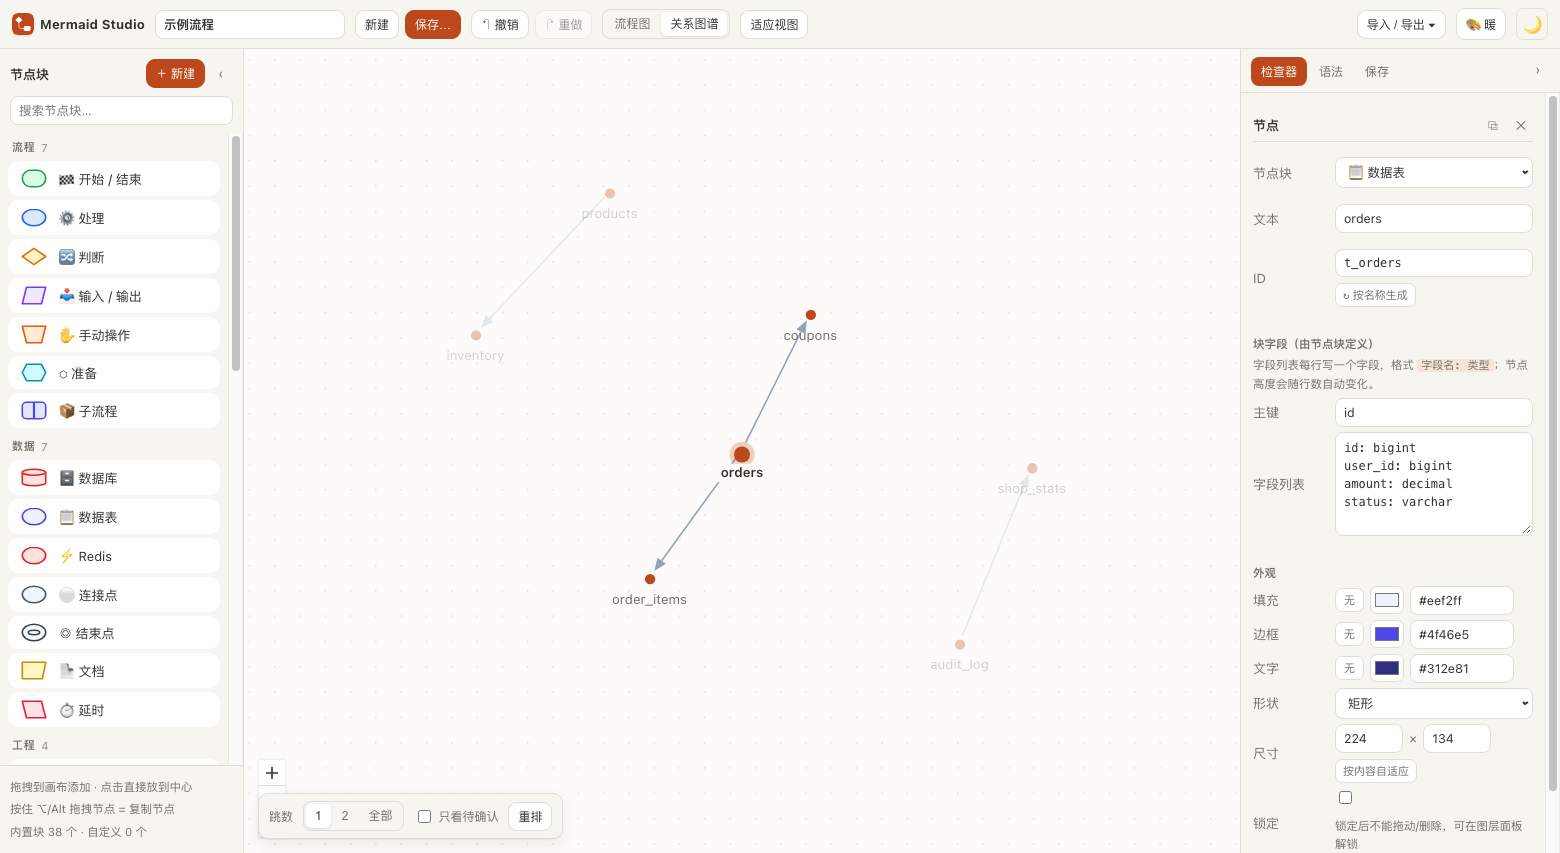
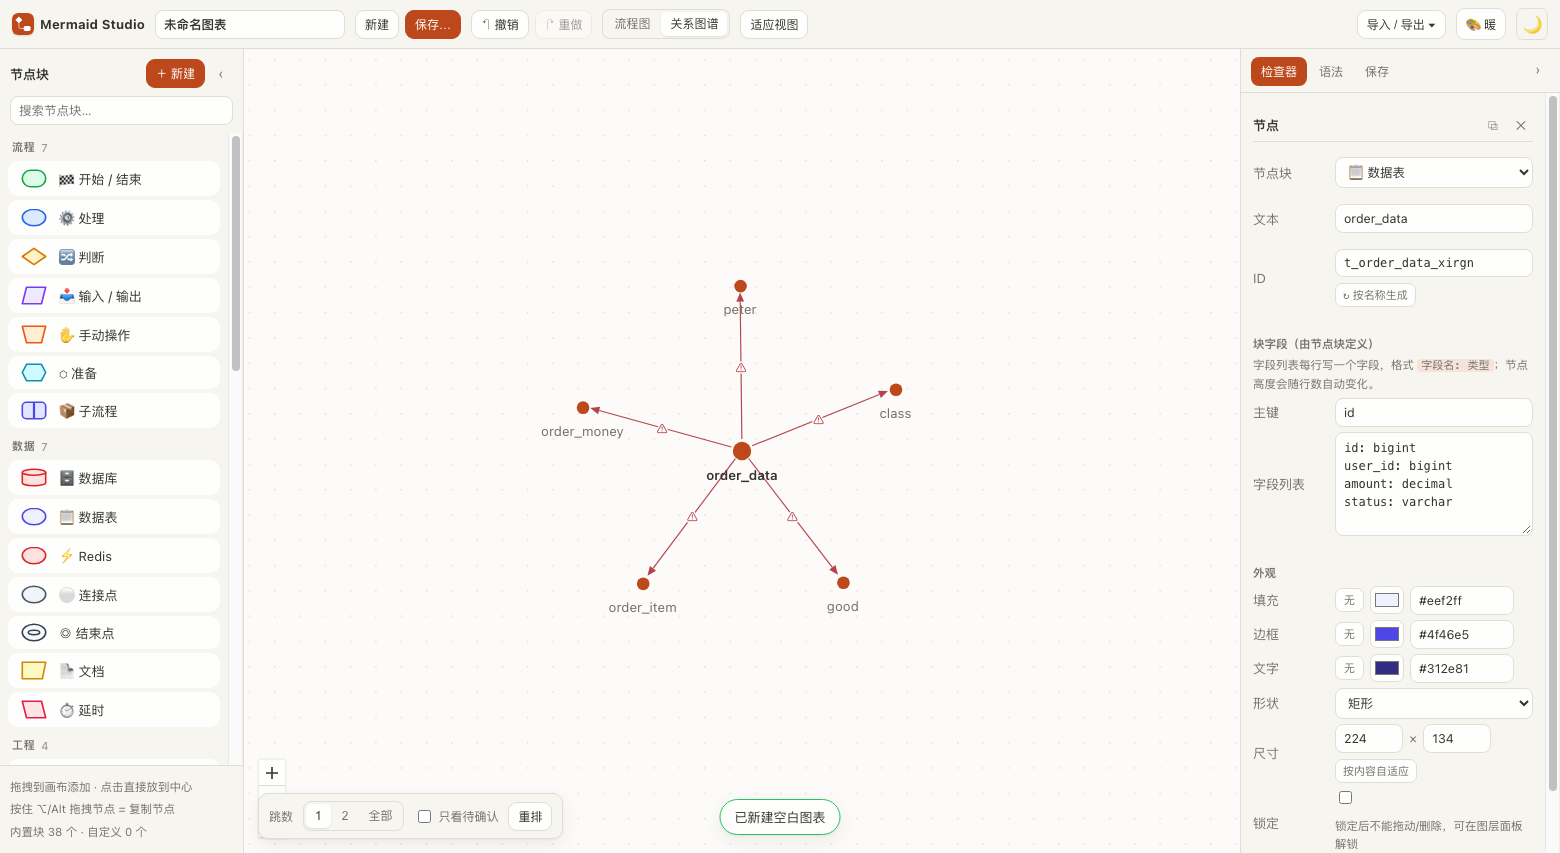
关系图谱：连线改细、圆点按度数定面积、去掉焦点光环与标签底色
- 连线 1px（Obsidian 口径），箭头缩到 8px；端点按两端圆点半径各自缩回，贴住边缘
- 圆点面积随连线数增长：直径 = 8 + √度数 × 3.4（上限 22px），焦点不再额外放大
- 去掉焦点圆点的渐变光环与标签的白色底（会糊住圆点和连线）；焦点只靠名字加粗 + 最上层区分
- 节点模型补 degree；节点框 140×70、圆点槽位固定 24px，圆心不随尺寸漂移
- e2e 增加三条样式断言（1px 线 / 面积随度数 / 无光环无白底）；全量 411 条通过
- 文档同步：D8、§6 视觉口径、§9 验收 24 条、§14 十五处实现记录、README

diff --git a/src/styles.css b/src/styles.css
@@ -2429,26 +2429,25 @@ body.ms-space-pan .react-flow__pane.dragging {
 }
 
 .ms-gdot__body {
+  /* 固定 24px 的圆点槽位：圆点大小随度数变，但圆心始终在 DOT_ANCHOR_Y */
   display: flex;
-  flex-direction: column;
   align-items: center;
-  gap: 5px;
+  justify-content: center;
+  height: 24px;
 }
 
 /* 分组色由节点写进 --gdot；缺省跟随主色 */
 .ms-gdot__dot {
-  width: 9px;
-  height: 9px;
   border-radius: 50%;
   background: var(--gdot, var(--accent));
-  transition: transform 0.16s ease, box-shadow 0.16s ease, width 0.16s ease, height 0.16s ease;
+  transition: transform 0.16s ease;
 }
 
 .ms-gdot__label {
   /* 绝对定位：表名可能比 140 的节点框长（如 ty_product.mt_store_sku_wide），
      允许它溢出节点框，不要截断成省略号 */
   position: absolute;
-  top: 19px;
+  top: 30px;
   left: 50%;
   transform: translateX(-50%);
   max-width: 230px;
@@ -2469,12 +2468,6 @@ body.ms-space-pan .react-flow__pane.dragging {
   color: var(--text);
 }
 
-.ms-gdot.is-focus .ms-gdot__dot {
-  width: 14px;
-  height: 14px;
-  box-shadow: 0 0 0 4px color-mix(in srgb, var(--gdot, var(--accent)) 24%, transparent);
-}
-
 .ms-gdot.is-focus {
   z-index: 2;
 }
@@ -2482,10 +2475,6 @@ body.ms-space-pan .react-flow__pane.dragging {
 .ms-gdot.is-focus .ms-gdot__label {
   color: var(--text);
   font-weight: 600;
-  /* 标签允许互相压住，焦点这张要压在最上面、加一层底色才读得清 */
-  background: var(--bg);
-  padding: 1px 5px;
-  border-radius: 4px;
 }
 
 .ms-gdot:hover {
@@ -2517,7 +2506,8 @@ body.ms-space-pan .react-flow__pane.dragging {
 .ms-gedge__line {
   fill: none;
   stroke: var(--ms-gedge-line);
-  stroke-width: 1.4;
+  /* Obsidian 的连线很细：1px 左右，靠颜色而不是粗细区分 */
+  stroke-width: 1;
 }
 
 .ms-gedge__arrow {

diff --git a/src/components/GraphEdgeView.tsx b/src/components/GraphEdgeView.tsx
@@ -8,28 +8,29 @@ export interface GraphEdgeData extends Record<string, unknown> {
   arrow: boolean
   label: string
   dim: boolean
+  /** 两端圆点的半径：线要缩到各自圆点的边缘，节点大小随度数变 */
+  sourceR: number
+  targetR: number
 }
 
 export type GraphEdgeModel = Edge<GraphEdgeData, 'graph'>
 
-const ARROW_LEN = 11
-const ARROW_HALF = 4.5
-/** 线从圆点圆心再缩回来这么一点，正好贴在圆点边缘（普通点半径 4.5，焦点点半径 7） */
-const DOT_INSET = 7
+const ARROW_LEN = 8
+const ARROW_HALF = 3.4
 
 function GraphEdgeViewInner({ id, sourceX, sourceY, targetX, targetY, data }: EdgeProps<GraphEdgeModel>) {
-  const d = data ?? { dashed: false, warn: false, arrow: true, label: '', dim: false }
+  const d = data ?? { dashed: false, warn: false, arrow: true, label: '', dim: false, sourceR: 4, targetR: 4 }
 
   const dx = targetX - sourceX
   const dy = targetY - sourceY
   const len = Math.hypot(dx, dy) || 1
   const ux = dx / len
   const uy = dy / len
-  // 连接点锚在圆点圆心上，所以两端都缩到圆点边缘，别让线穿过圆点
-  const startX = sourceX + ux * DOT_INSET
-  const startY = sourceY + uy * DOT_INSET
-  const tipX = targetX - ux * DOT_INSET
-  const tipY = targetY - uy * DOT_INSET
+  // 连接点锚在圆点圆心，两端各缩到自己的圆点边缘（留 1.5px 空隙）
+  const startX = sourceX + ux * (d.sourceR + 1.5)
+  const startY = sourceY + uy * (d.sourceR + 1.5)
+  const tipX = targetX - ux * (d.targetR + 1.5)
+  const tipY = targetY - uy * (d.targetR + 1.5)
   // 线画到箭头根部，箭头压在圆点边缘上
   const baseX = d.arrow ? tipX - ux * ARROW_LEN : tipX
   const baseY = d.arrow ? tipY - uy * ARROW_LEN : tipY

diff --git a/src/components/GraphView.tsx b/src/components/GraphView.tsx
@@ -13,7 +13,7 @@ import { useStore } from '../store'
 import { getRfInstance, setRfInstance } from '../lib/rf'
 import { bfsHops, deriveGraphModel, graphSignature } from '../lib/graphModel'
 import { DEFAULT_SEED, defaultRootId, layoutGraph } from '../lib/graphLayout'
-import { DOT_ANCHOR_Y, GraphDotNode, NODE_H, NODE_W, type GraphDotNodeModel } from './GraphDotNode'
+import { DOT_ANCHOR_Y, GraphDotNode, NODE_H, NODE_W, dotSize, type GraphDotNodeModel } from './GraphDotNode'
 import { GraphEdgeView, type GraphEdgeModel } from './GraphEdgeView'
 
 const nodeTypes = { dot: GraphDotNode }
@@ -155,6 +155,7 @@ function GraphViewInner() {
           connectable: false,
           data: {
             label: n.label,
+            degree: n.degree,
             groupIndex: n.groupIndex,
             hop: hop ?? null,
             isFocus,
@@ -169,6 +170,8 @@ function GraphViewInner() {
     () => new Set(nodes.filter((n) => n.data.isDim).map((n) => n.id)),
     [nodes],
   )
+
+  const degreeOf = useMemo(() => new Map(model.nodes.map((n) => [n.id, n.degree])), [model])
 
   const edges = useMemo<GraphEdgeModel[]>(
     () =>
@@ -185,9 +188,12 @@ function GraphViewInner() {
             arrow: e.arrow,
             label: e.label,
             dim: dimIds.has(e.source) || dimIds.has(e.target),
+            // 圆点大小随度数变，线要缩到各自圆点的边缘
+            sourceR: dotSize(degreeOf.get(e.source) ?? 0) / 2,
+            targetR: dotSize(degreeOf.get(e.target) ?? 0) / 2,
           },
         })),
-    [model, onlyOpen, dimIds],
+    [model, onlyOpen, dimIds, degreeOf],
   )
 
   // 卸载时把单例清掉：否则"双击回流程图"的第一帧会对着已经卸载的画布 fitView

diff --git a/src/components/GraphDotNode.tsx b/src/components/GraphDotNode.tsx
@@ -6,13 +6,19 @@ const GROUP_COLORS = ['#2563eb', '#059669', '#d97706', '#7c3aed', '#e11d48', '#0
 
 /** 节点在画布上的固定占位框：圆点在顶部正中，名字在下面 */
 export const NODE_W = 140
-export const NODE_H = 56
-/** 圆点中心距节点框顶部的距离（连线端点也锚在这里） */
-export const DOT_ANCHOR_Y = 8
+export const NODE_H = 70
+/** 圆点中心距节点框顶部的距离（连线端点也锚在这里；圆点大小变化时圆心不动） */
+export const DOT_ANCHOR_Y = 16
+
+/** 圆点直径：连线越多面积越大（面积与条数成正比，所以直径随 √条数 增长） */
+export function dotSize(degree: number): number {
+  return Math.round(Math.min(22, 8 + Math.sqrt(Math.max(0, degree)) * 3.4))
+}
 
 /** 图谱里的一个点：Obsidian 式圆点 + 下方的名字 */
 export interface GraphDotData extends Record<string, unknown> {
   label: string
+  degree: number
   groupIndex: number
   hop: number | null
   isFocus: boolean
@@ -54,7 +60,7 @@ function GraphDotNodeInner({ id, data }: NodeProps<GraphDotNodeModel>) {
       <Handle type="target" position={Position.Top} style={HANDLE_STYLE} isConnectable={false} />
       <Handle type="source" position={Position.Top} style={HANDLE_STYLE} isConnectable={false} />
       <div className="ms-gdot__body">
-        <span className="ms-gdot__dot" />
+        <span className="ms-gdot__dot" style={{ width: dotSize(data.degree), height: dotSize(data.degree) }} />
         <span className="ms-gdot__label">{data.label}</span>
       </div>
     </div>

diff --git a/src/lib/graphModel.ts b/src/lib/graphModel.ts
@@ -11,6 +11,8 @@ import { isEdgeLabelConforming } from './edgeLabels.ts'
 export interface GraphNode {
   id: string
   label: string
+  /** 连线条数（平行边各算一条）：视图用它决定圆点面积 */
+  degree: number
   /** 所属分组的调色索引；-1 表示不属于任何分组 */
   groupIndex: number
 }
@@ -88,6 +90,7 @@ export function deriveGraphModel(doc: DiagramDoc): GraphModel {
     .map((n) => ({
       id: n.id,
       label: nodeLabel(n),
+      degree: degree.get(n.id) ?? 0,
       groupIndex: n.data.groupId ? (groupOrder.get(n.data.groupId) ?? -1) : -1,
     }))
 

diff --git a/README.md b/README.md
@@ -611,7 +611,7 @@ src/
 ### 1. 画什么
 
 - 只画实体：**分组框、隐藏元素、没有连线的纯文本**都不进图（图层里关掉的元素在这里也是关掉的）。
-- 节点是 Obsidian 式的「一个圆点 + 下面的表名」，连线端点贴在圆点边缘；看字段回右侧检查器，图谱只负责看关系。
+- 节点是 Obsidian 式的「一个圆点 + 下面的表名」：**圆点面积随连线数增长**，连线是 1px 细线、端点贴在圆点边缘；看字段回右侧检查器，图谱只负责看关系。
 - 同一分组的点共用一个底色，用来认出"这几张表属于一个模块"——**不画分组框**（框是流程图的排版概念）。
 - 连线沿用既有图语言：**虚线 = 待确认项**，标签不合规的连线标红点 ⚠，箭头照你画的方向走（不推断外键方向）。
 - 布局：**焦点钉在圆心**，1 跳一圈、2 跳再一圈（没有焦点时以度数最高的表为根）；环上跑力导向松弛让同一圈的邻居按亲疏抱团。固定随机种子，同一份图每次摆出来一样；只有结构变化或点「重排」才会变。
@@ -653,7 +653,7 @@ src/
 
 ## 十、自动化验证
 
-二十一组基于 Chrome DevTools Protocol 的端到端脚本，共 **408 项断言**（建块→用块→序列化→保存→刷新仍在→导入→往返→撤销→布局→预览→深浅色主题→拖拽→重连→多文档→真鼠标框选→一键编组→拖动/缩放分组→图层隐藏锁定调序→颜色「无」→数据表字段编辑与四向端口→指定端口连线→角色/主题两栏→保存弹框与 .md 内容→选位置写入与自动保存→单击选连线→双击改标签→连线跟随节点移动/缩放→拖入自动选中→颜色行无重置按钮→⌥/Alt 拖拽复制→七个固定 classDef 的颜色与类名→md frontmatter→存疑清单逐条对应虚线→手写勾选与历史变更记录在重新导出后保留→自动保存不动版本号→定时任务 / MQ / Redis 三个新块→Redis 的 JSON 渲染与格式化校验→导入后字段还原→十种块的语义 ID 前缀→检查器里人工改名→改名后连线与分组不断→重名保护与非法字符清洗→导出导入 ID 稳定→12 组前缀组合的类型推荐→类型+说明两段式标签→不合规识别与一键补全→类型下拉→别名归一化→全量备份导出→清空本地数据→从备份恢复（图表+自定义块+设置）→刷新仍在→重复导入不覆盖→渲染引擎默认 pele→pele 渲染保真→二次渲染耗时→深色变量不重渲→导出 SVG 自带主题→切回 mermaid 仍可用→皮肤默认暖色→变量/背景/主按钮跟随→预览与导出的主题同步→一键切冷色→持久化→暖色×深色组合→**全部节点卡片化（shape SVG 归零）→卡片投影/圆角/细描边→选中外环用主色半透明且不染描边→药丸标签→深色下投影仍生效→处理节点渲染成卡片（600 字重标题 / Mermaid 输出不变）→处理节点两行 topic（状态 + 函数名，10px/400 居中，进入 <br/> 标签并可反向导入）→所有节点连接点默认隐藏、悬停才出现→双击编辑光标落文字末尾→编辑时鼠标划字不拖动节点→默认箭头光标与空格拖拽手型→输入框里按空格不切手型→**剧本导入（3 事件/4 变更）与表自动匹配→未回放时保持字段:类型→拖动播放头后表节点显示字段:值且不写回文档→播放时播放头前进+连线闪烁+锁定双击编辑→重置恢复字段:类型→取消核心表/删除事件后导出只含保留内容→未绑定表不导出→删除事件可恢复→快照格式导入逐字段 diff→仓库自带 demo 图/剧本可直接导入且全部匹配→**元素编号 T01–T13 目录 / 代码标记 / 各视图可见性一致→甘特条与左侧事件名逐行对齐→**数据表字段里的 <font color> 富文本渲染并原样进入 Mermaid**→连接口默认上进下出 / 左进右出（导入、切方向翻面、人工指定不被覆盖、老文档自动补端口、导出不携带端口信息）→子图导入后包住全部成员（含嵌套、盒子尺寸与数据一致）→分组垫在节点下面、点节点能选中节点→组内也是从上到下的连线→节点顺序从上到下→自动布局后依然成立→导出保留 subgraph 嵌套→**导入时长标题把节点撑宽、不被省略号截断（短标题保持默认宽）**→**真实复杂图（3 分组 + 28 节点 + 平行边）导入不再崩、分组全包含、点节点不被分组挡、`&` 并列展开成多条边、引号标签清洗、往返稳定**→选中连线后两端节点的连接头常显、用到的那个口高亮、端点节点抬到最上层、取消选中后恢复隐藏→右侧标签条在面板内部、只剩三项（检查器/语法/保存）、相邻标签间隙实测 2px→**新建连线默认空白（无类型/无标签、标为不合规）→按推荐补全后类型正确**→**顶栏不再展示自动保存状态、保存弹框没有自动保存开关、保存目标记在当前图表名下、新建后不写进旧文件**→**选中连线出现＋走位手柄、拖出拐点走折线、拖拐点改走向、检查器显示拐点数并一键清除、双击删拐点、拐点不写进 Mermaid**→**左栏/右栏可收起（画布变宽、留展开条）、可再展开、两栏都收起时画布铺满且无横向溢出**→**有拐点时连线保持直角、拖动节点后自动重排仍无斜线段**→**每条段都有＋可继续加拐点（1 个拐点时 2 个＋、可加到 2 个）、拐点与标签同坐标时拐点在最上层且能拖动**→**关系图谱（分组框/隐藏表/无连线注释不进图→圆点 + 表名在下面→打开即有焦点且落在圆心→拖动节点只移动该点且不写回文档→单点聚焦 1 跳亮其余压暗→焦点被摆到圆心→2 跳放大范围→点空白还原→双击回流程图并定位→切走切回坐标逐字节不变→隐藏状态不被改写→视图模式只进 settings 不进文档→刷新后仍在图谱）**）：
+二十一组基于 Chrome DevTools Protocol 的端到端脚本，共 **411 项断言**（建块→用块→序列化→保存→刷新仍在→导入→往返→撤销→布局→预览→深浅色主题→拖拽→重连→多文档→真鼠标框选→一键编组→拖动/缩放分组→图层隐藏锁定调序→颜色「无」→数据表字段编辑与四向端口→指定端口连线→角色/主题两栏→保存弹框与 .md 内容→选位置写入与自动保存→单击选连线→双击改标签→连线跟随节点移动/缩放→拖入自动选中→颜色行无重置按钮→⌥/Alt 拖拽复制→七个固定 classDef 的颜色与类名→md frontmatter→存疑清单逐条对应虚线→手写勾选与历史变更记录在重新导出后保留→自动保存不动版本号→定时任务 / MQ / Redis 三个新块→Redis 的 JSON 渲染与格式化校验→导入后字段还原→十种块的语义 ID 前缀→检查器里人工改名→改名后连线与分组不断→重名保护与非法字符清洗→导出导入 ID 稳定→12 组前缀组合的类型推荐→类型+说明两段式标签→不合规识别与一键补全→类型下拉→别名归一化→全量备份导出→清空本地数据→从备份恢复（图表+自定义块+设置）→刷新仍在→重复导入不覆盖→渲染引擎默认 pele→pele 渲染保真→二次渲染耗时→深色变量不重渲→导出 SVG 自带主题→切回 mermaid 仍可用→皮肤默认暖色→变量/背景/主按钮跟随→预览与导出的主题同步→一键切冷色→持久化→暖色×深色组合→**全部节点卡片化（shape SVG 归零）→卡片投影/圆角/细描边→选中外环用主色半透明且不染描边→药丸标签→深色下投影仍生效→处理节点渲染成卡片（600 字重标题 / Mermaid 输出不变）→处理节点两行 topic（状态 + 函数名，10px/400 居中，进入 <br/> 标签并可反向导入）→所有节点连接点默认隐藏、悬停才出现→双击编辑光标落文字末尾→编辑时鼠标划字不拖动节点→默认箭头光标与空格拖拽手型→输入框里按空格不切手型→**剧本导入（3 事件/4 变更）与表自动匹配→未回放时保持字段:类型→拖动播放头后表节点显示字段:值且不写回文档→播放时播放头前进+连线闪烁+锁定双击编辑→重置恢复字段:类型→取消核心表/删除事件后导出只含保留内容→未绑定表不导出→删除事件可恢复→快照格式导入逐字段 diff→仓库自带 demo 图/剧本可直接导入且全部匹配→**元素编号 T01–T13 目录 / 代码标记 / 各视图可见性一致→甘特条与左侧事件名逐行对齐→**数据表字段里的 <font color> 富文本渲染并原样进入 Mermaid**→连接口默认上进下出 / 左进右出（导入、切方向翻面、人工指定不被覆盖、老文档自动补端口、导出不携带端口信息）→子图导入后包住全部成员（含嵌套、盒子尺寸与数据一致）→分组垫在节点下面、点节点能选中节点→组内也是从上到下的连线→节点顺序从上到下→自动布局后依然成立→导出保留 subgraph 嵌套→**导入时长标题把节点撑宽、不被省略号截断（短标题保持默认宽）**→**真实复杂图（3 分组 + 28 节点 + 平行边）导入不再崩、分组全包含、点节点不被分组挡、`&` 并列展开成多条边、引号标签清洗、往返稳定**→选中连线后两端节点的连接头常显、用到的那个口高亮、端点节点抬到最上层、取消选中后恢复隐藏→右侧标签条在面板内部、只剩三项（检查器/语法/保存）、相邻标签间隙实测 2px→**新建连线默认空白（无类型/无标签、标为不合规）→按推荐补全后类型正确**→**顶栏不再展示自动保存状态、保存弹框没有自动保存开关、保存目标记在当前图表名下、新建后不写进旧文件**→**选中连线出现＋走位手柄、拖出拐点走折线、拖拐点改走向、检查器显示拐点数并一键清除、双击删拐点、拐点不写进 Mermaid**→**左栏/右栏可收起（画布变宽、留展开条）、可再展开、两栏都收起时画布铺满且无横向溢出**→**有拐点时连线保持直角、拖动节点后自动重排仍无斜线段**→**每条段都有＋可继续加拐点（1 个拐点时 2 个＋、可加到 2 个）、拐点与标签同坐标时拐点在最上层且能拖动**→**关系图谱（分组框/隐藏表/无连线注释不进图→圆点 + 表名在下面（面积随连线数）→连线 1px→打开即有焦点且落在圆心→拖动节点只移动该点且不写回文档→单点聚焦 1 跳亮其余压暗→焦点被摆到圆心→2 跳放大范围→点空白还原→双击回流程图并定位→切走切回坐标逐字节不变→隐藏状态不被改写→视图模式只进 settings 不进文档→刷新后仍在图谱）**）：
 
 ```bash
 npm run dev                 # 终端 A
